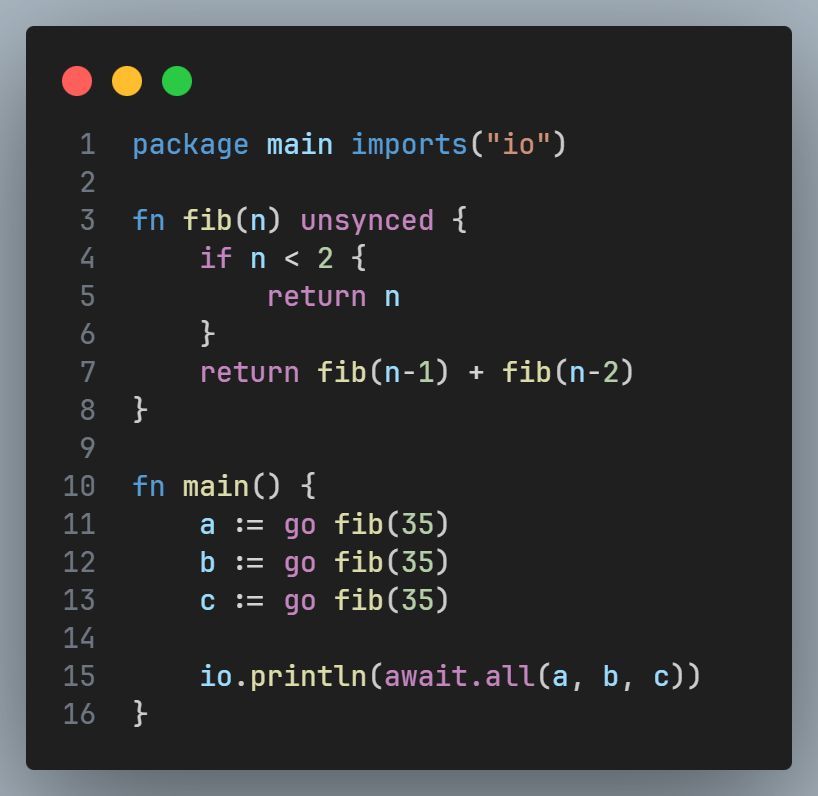
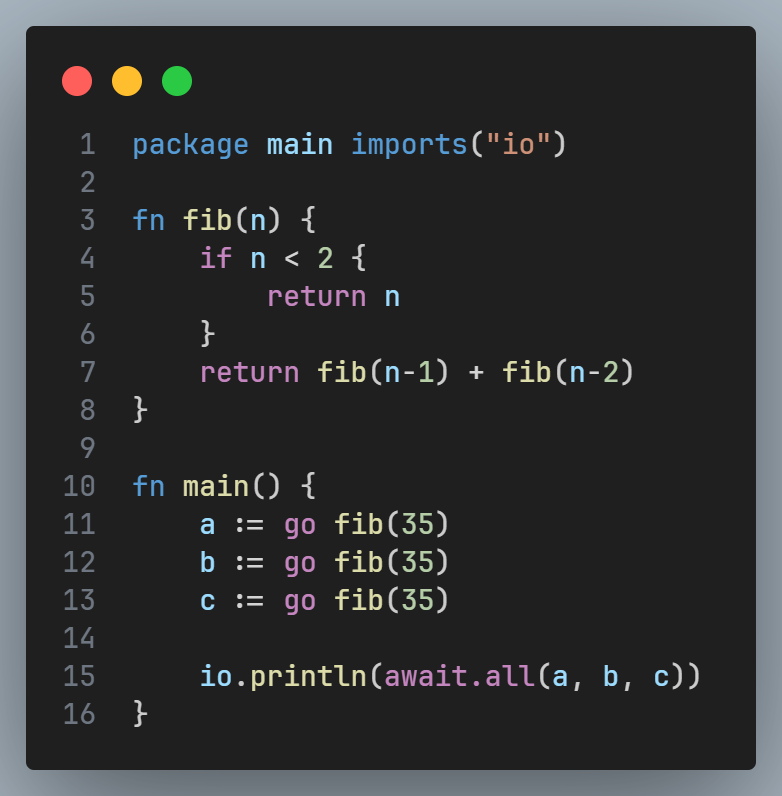
Update the README
- Current features, the concurrency model, structs and embedding

diff --git a/README.md b/README.md
@@ -1,65 +1,162 @@
 # The Evie Programming Language
 
-Evie is a dynamically typed programming language written in Go. The goal is to provide Go developers with a blazingly fast embeddable scripting language that does *not* depend on CGO. Preliminary micro-benchmarks show Evie to be faster than PUC [Lua 5.4.2](https://lua.org/)  and also Google's [V8 Ignition](https://v8.dev/docs/ignition) JavaScript interpreter. See [here](#benchmarks).
+Evie is a lightweight, dynamically typed, multi-threaded scripting language written in pure Go without CGO. Combining the dynamic ergonomics of JavaScript and Python with Go's simplicity and Rust's safe-by-default immutability, Evie features true multi-core parallel concurrency, cooperative fibers, first-class OOP with structs and inheritance, and seamless Go host embedding.
+
+Preliminary micro-benchmarks show Evie to be faster than PUC [Lua 5.4.2](https://lua.org/) and Google's [V8 Ignition](https://v8.dev/docs/ignition) JavaScript interpreter. See [here](#benchmarks).
+
+---
 
 ## Showcase
-#### Here is some example code from [examples/fib.ev](./examples/fib.ev)
+
+#### Recursive Fibonacci ([examples/fib.ev](./examples/fib.ev))
+<!-- TODO: Replace this image -->
 <a href="./examples/fib.ev">
     <img src="./docs/images/fib.png" width="500" alt="A snippet of Evie code">
 </a>
 
-#### Here is a string interpolation example from [examples/input.ev](./examples/input.ev)
+#### String Interpolation & I/O ([examples/input.ev](./examples/input.ev))
+<!-- TODO: Replace this image -->
 <a href="./examples/input.ev">
     <img src="./docs/images/interpolation.png" width="600" alt="A snippet of Evie code">
 </a>
 
-#### Also a concurrency example from [examples/go.ev](./examples/go.ev)
+#### Concurrent Tasks with `go` ([examples/go.ev](./examples/go.ev))
+<!-- TODO: Replace this image -->
 <a href="./examples/go.ev">
     <img src="./docs/images/go.png" width="500" alt="A snippet of Evie code">
 </a>
 
-To test this exact program, run `go run ./evie -t ./examples/go.ev`. Then remove all of the `go` keywords infront of the `print` calls and re-run to see the difference. This is still single threaded by the way. It is concurrent yes. But single threaded and safe. The `go` keyword just schedules it for execution, but they only run when `main` returns or yields via `await`. You can say Evie by default has a [GIL](https://en.wikipedia.org/wiki/Global_interpreter_lock) (Global Interpreter Lock).
+Evie fibers run in true parallel multi-threading across OS threads and CPU cores without a Global Interpreter Lock by default (`UndefinedMode`). Tasks spawned with `go` return stateful, memoized `Task` handles that can be awaited (`await task`, `await.all`, `await.any`, `await.race`).
 
-> The flag `-t` prints the execution time of just Evie, i.e. total time `-` the time it took to compile Evie itself. You could alternatively build Evie first by doing `go build ./evie`, as shown at the bottom of this page.
+To test this program, run `go run ./evie -t ./examples/go.ev`.
 
-> Also you need Go installed of course. But don't worry as it is probably the simplest language to setup. See [here](https://go.dev/doc/install).
+> The flag `-t` prints the execution time of just Evie, i.e. total time minus the time it took to compile Evie itself.
 
-#### What about true parallelism?
-I did not want to make the same mistake as Python. That is, not providing a means to do true multi-threading by default. So here it is, [examples/unsynced.ev](./examples/unsynced.ev).
-
+#### Multi-Core Parallelism & Synchronization ([examples/unsynced.ev](./examples/unsynced.ev))
 <a href="./examples/unsynced.ev">
     <img src="./docs/images/unsynced.png" width="500" alt="A snippet of Evie code">
 </a>
 
-## Goals
-- Highly performant
-- Builtin concurrency
-- Very similar to existing languages
-- Easily embeddable
-- Provide a standalone mode for non-embedded use
-- No CGO
+Unlike Python's default GIL, Evie executes CPU-bound fibers simultaneously across multiple CPU cores out of the box. When mutual exclusion is required for shared mutable state, Evie provides fine-grained `synced` blocks (`synced { ... }`) and `synced` functions (`fn foo() synced { ... }`) to serialize critical sections under the runtime GIL without serializing unaffected code.
 
-> This language is in an early state. I have been hard at work optimising and improving the core language. The standard library only contains some basic methods for testing purposes.
+---
 
-## Docs
-- [Language Syntax](https://github.com/hxkhan/evie/tree/main/docs/syntax.md)
+## Key Features
 
-## Features checklist
-- Package management ⏳
-- Variables ✅
-- Functions ✅
-- Primative types (`number` `bool` `nil`) ✅
-- Reference types (`string` `function` `object`) ✅
-- Control flow (`if` `else` `while` `break` `continue`) ✅
-- Control flow (`for` `switch`) ❌
-- Operators (`+` `-` `*` `/` `%` `==` `<` `>`, `?`) ✅
-- Operators (`!`, `&&`, `||`) ❌
-- Concurrency (basics work but needs *polishing*) ⏳
-- Scoping (global, function, block) ✅
-- Error handling (exceptions) ⏳
-- Interoperability (call into Go) ✅
+- **Parallel by Default**: Multi-threaded fibers execute simultaneously across CPU cores with zero GIL contention by default.
+- **Cooperative & Expressive Concurrency**:
+  - `go` spawns concurrent fibers returning stateful `Task` instances.
+  - `await` pauses the fiber until task resolution with multi-await memoization.
+  - Multi-task coordination via `await.all()`, `await.any()`, and `await.race()`.
+- **Fine-Grained Critical Sections (`synced`)**:
+  - Re-entrant `synced { ... }` blocks and `fn ... synced` functions for thread-safe mutations.
+  - Cooperative lock-releasing: awaiting a task inside `synced` code automatically releases the GIL while waiting and re-acquires it on resume.
+- **Internal Struct Thread-Safety**:
+  - Struct instances are internally synchronized using per-instance `sync.RWMutex` locks, preventing low-level data races on field reads and mutations.
+  - Struct methods run in parallel by default across CPU cores.
+- **Safe-by-Default Immutability**:
+  - `x := 10` creates an immutable binding.
+  - `var x := 10` is explicitly required for mutability.
+- **First-Class Structs & OOP**:
+  - Encapsulated methods with implicit `this`.
+  - Classical single inheritance (`struct Sub : Super { ... }`).
+  - Dynamic instance fields (`p.email = "..."`).
+  - First-class bound methods (`fnVal := p.greet`).
+  - Polymorphic type checks (`p is Person`, `dog is Animal`).
+- **Modern Control Flow & Iteration**:
+  - `if`, `else`, `while`, `break`, and `continue`.
+  - `for item in collection` and `for idx, item in collection` over arrays, objects, and strings.
+- **Robust Error Handling**:
+  - `throw error("...")` and `catch(expr)` semantics with first-class `error` values.
+- **High-Performance NaN-Boxing**:
+  - 64-bit NaN-boxed `Value` representation (`number`, `bool`, `string`, `buffer`, `array`, `object`, `struct`, `task`, `error`, `function`, `nil`).
+- **Seamless Go Host Embedding**:
+  - Automatic Go function reflection wrapping (`env.Set("fn", goFunc)`).
+  - Bidirectional marshaling and unmarshaling into native Go structs (`val.Unmarshal(&struct)`).
+  - One-line script execution (`evie.Eval(...)`).
+- **Pure Go (Zero CGO)**:
+  - 100% Go codebase, fast builds, effortless cross-compilation, and zero external dependencies.
+
+---
+
+## Go Host Embedding Example
+
+Embedding Evie in your Go application requires no CGO or complicated bindings:
+
+```go
+package main
+
+import (
+    "fmt"
+    "github.com/hxkhan/evie"
+)
+
+func main() {
+    // 1. Create a new Evie environment
+    env := evie.New()
+
+    // 2. Expose Go functions directly via reflection
+    env.Set("fetchData", func(id float64) map[string]any {
+        return map[string]any{
+            "id":     id,
+            "status": "active",
+        }
+    })
+
+    // 3. Execute Evie script
+    val, err := env.Run(`
+        package main
+        fn main() {
+            data := fetchData(42)
+            return data["status"]
+        }
+    `)
+    if err != nil {
+        panic(err)
+    }
+
+    fmt.Println(val.ToGo()) // "active"
+
+    // 4. One-line evaluation
+    result, _ := evie.Eval("return [1, 2, 3].len() * 10")
+    fmt.Println(result.ToGo()) // 30
+}
+```
+
+---
+
+## Features Checklist
+
+- [x] Variables & Immutability (`:=` vs `var :=`)
+- [x] Functions, Closures & Variadic Arguments (`...args`)
+- [x] Primitive types (`number`, `bool`, `nil`)
+- [x] Reference types (`string`, `buffer`, `array`, `object`, `function`, `task`, `error`)
+- [x] Structs & OOP (methods, `this`, single inheritance, dynamic fields, bound methods)
+- [x] Struct thread-safety (per-instance `sync.RWMutex`, parallel methods by default)
+- [x] Control flow (`if`, `else`, `while`, `break`, `continue`)
+- [x] For loops (`for item in col`, `for idx, item in col`)
+- [x] Operators (`+`, `-`, `*`, `/`, `%`, `==`, `!=`, `<`, `<=`, `>`, `>=`, `?`)
+- [x] Logical operators (`!`, `&&`, `||`)
+- [x] Type checking (`is` operator)
+- [x] Concurrency (`go`, `await`, `await.all`, `await.any`, `await.race`, `Task`)
+- [x] Synchronization (`synced` blocks, `synced` functions, re-entrancy, cooperative await)
+- [x] Scoping (global, package, function, block, captured closures)
+- [x] Error handling (`throw`, `catch(expr)`, `error` type)
+- [x] Go Host Embedding (bidirectional marshaling, function reflection, struct unmarshaling)
+- [ ] Package management / module imports ⏳
+- [ ] Standard library expansion (`std/json`, `std/math`, `std/fs`) ⏳
+
+---
+
+## Documentation
+
+For a comprehensive guide covering grammar, types, standard methods, and concurrency patterns, see:
+- [Language Reference (docs/syntax.md)](./docs/syntax.md)
+
+---
 
 ## Benchmarks
+
 | Language | fib(35)  | Host Language |
 | :-       | :-       | :-            |
 | [**Evie**](https://github.com/hxkhan/evie) | `392ms` | Go |
@@ -70,29 +167,36 @@ I did not want to make the same mistake as Python. That is, not providing a mean
 | [Wren](https://wren.io/) | `893ms` | C |
 | [Tengo](https://github.com/d5/tengo) | `1603ms` | Go |
 
-> These benchmarks were ran on an Intel i5-13400F. Each language 10 times and the average was taken.
+> Benchmarks ran on an Intel i5-13400F. Each language was executed 10 times and the average was recorded.
 
-Why `fib(35)`? Because Evie barely has a standard library so micro-benchmarks is all I rely on. And also because `fib(35)` does measure:
-- Function calls (invocation) overhead as it does `29860703` of them afterall 
-- Instruction dispatch overhead
-- Number crunching (primative math)
-- Conditional logic
+Why `fib(35)`? Because micro-benchmarks measure fundamental VM metrics:
+- Function invocation and call-frame overhead (`29,860,703` recursive calls)
+- Bytecode instruction dispatch performance
+- Primitive number crunching
+- Conditional branch prediction
 
-# Setup
-All of these exist in the [examples](./examples) directory. To build evie you can do:
-1. First install go from [here](https://go.dev/doc/install)
-2. Then git clone this repo
-3. Build evie
-4. Use it like any other language
-```
+---
+
+## Setup & Quick Start
+
+### Prerequisites
+- Go 1.20+ installed ([go.dev/doc/install](https://go.dev/doc/install))
+
+### Build & Run
+```bash
+# Clone the repository
 git clone https://github.com/hxkhan/evie.git
 cd evie
+
+# Build the CLI executable
 go build ./evie
-time ./evie ./examples/fib.ev
+
+# Run an example
+./evie ./examples/fib.ev
 ```
 
-To benchmark the other languages, you can grab your own versions from their respective websites. For example; if you have python installed then just do `time python ./examples/fib.py`, you might have to change `python` for `python3`.
-
-The easiest way to test [V8's Ignition](https://v8.dev/docs/ignition) interpreter is to have [nodejs](https://nodejs.org/en) installed and then run `time node --jitless --no-expose_wasm ./examples/fib.js`. The `--jitless` disables the JIT compiler. The `--no-expose_wasm` has to be done alongside becuase wasm depends on the JIT.
-
-> Keep in mind, `time` exists only on linux, use `Measure-Command` on Windows powershell like `Measure-Command { python ./examples/fib.py }`
+### Run Tests
+```bash
+go test -v .
+go vet ./...
+```
